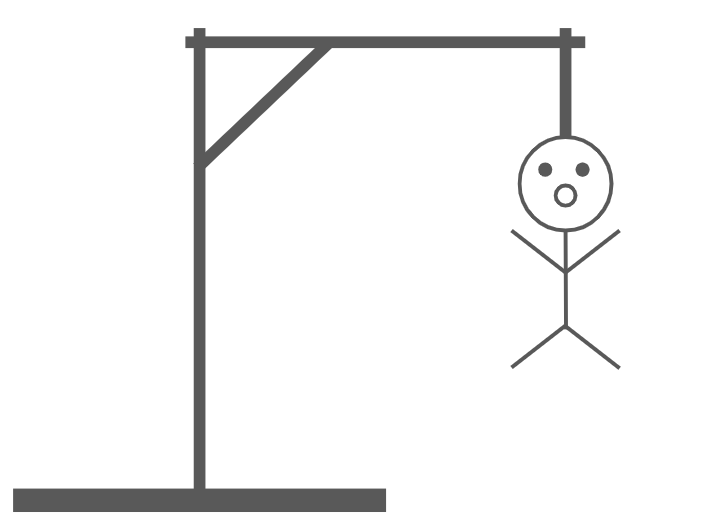
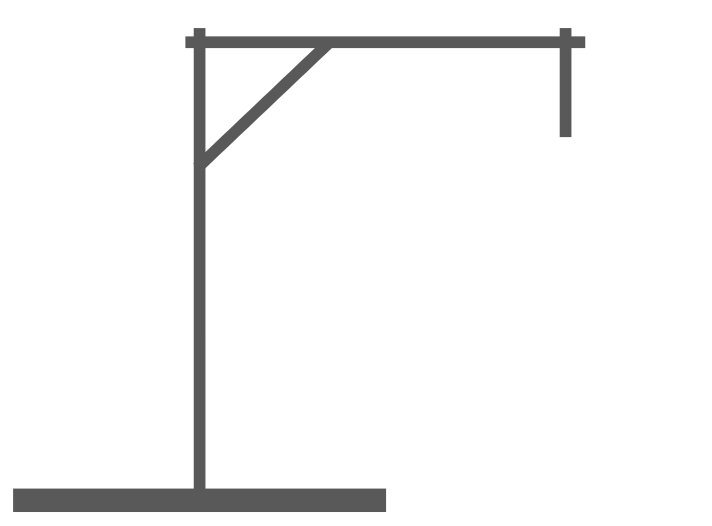
finish

diff --git a/src/app/app.component.scss b/src/app/app.component.scss
@@ -3,12 +3,11 @@
     flex-direction: row;
     justify-content: space-around;
     align-items: center;
-    // background-color: rgba(211, 211, 211, 0.689);
     width: 100%;
     height: 100vh;
     margin: auto;
     gap: 50px;
-    padding: 0 50px;
+    padding: 0 20px;
     box-sizing: border-box;
 }
 
@@ -78,15 +77,24 @@
     width: 50%;
     height: 90%;
     display: flex;
-    justify-content: space-between;
+    justify-content: flex-start;
     align-items: center;
-    // background-color: rgb(225 225 225);
     border-radius: 5px;
-    gap: 0;
+    gap: 150px;
+}
+
+.hangman {
+    display: flex;
+    flex-direction: column;
+    justify-content: center;
 }
 
 .hangman-image {
     width: 80%;
+}
+
+.hangman-mistakes {
+    padding-left: 10px;
 }
 
 .full-screen-message {
@@ -124,12 +132,6 @@
     font-weight: 700;
 }
 
-.play-again {
-    padding: 20px;
-    background-color: #fff;
-    color: #000;
-}
-
 .score {
     font-size: 2rem;
     color: #021f5f;
@@ -165,4 +167,75 @@
     font-size: 3rem;
     padding: 10px 30px;
     border-radius: 10px;
+}
+
+.mobile-stats,
+.correct-mobile-stats {
+    display: none;
+}
+
+@media only screen and (max-width: 600px) {
+    .container {
+        flex-direction: column;
+        height: 100%;
+        margin-top: 10px;
+        gap: 30px;
+    }
+    .title {
+        display: none;
+    }
+    .button {
+        font-size: 1rem;
+        padding: 20px;
+    }
+    .hangman {
+        align-items: center;
+    }
+    .word-side {
+        width: 100%;
+        gap: 30px;
+    }
+    .image {
+        width: 90%;
+    }
+    .game-over-screen {
+        gap: 30px;
+    }
+    .play-again {
+        font-size: 1.5rem;
+        text-align: center;
+    }
+    .image {
+        justify-content: center;
+    }
+    .text {
+        font-size: 1.5rem;
+        text-align: center;
+    }
+    .score,
+    .correct,
+    .hangman-mistakes {
+        display: none;
+    }
+    .chosen-word-letter {
+        font-size: 3rem;
+    }
+    .mobile-stats {
+        display: flex;
+        justify-content: space-between;
+        background-color: #f1f1f1;
+        width: 100%;
+        gap: 5px;
+        padding: 10px;
+        box-sizing: border-box;
+        box-shadow: 0 2px 2px rgba(0, 0, 0, 0.162);
+    }
+    .correct-mobile-stats {
+        background-color: rgb(66, 140, 80);
+        color: #fff;
+        font-size: 1rem;
+        padding: 10px;
+        font-weight: 700;
+        text-align: center;
+    }
 }

diff --git a/src/app/app.component.html b/src/app/app.component.html
@@ -1,9 +1,23 @@
+<div class="mobile-stats" *ngIf="status !== GameStatus.GameWon">
+    <div class="mobile-score"> Wins: {{wins}}</div>
+    <div class="mobile-score "> Highscore: {{highscore}}</div>
+    <div class="mobile-hangman-mistakes">Remaining tries: {{allowedTryCount }}</div>
+</div>
+<div class="correct-mobile-stats" *ngIf="status === GameStatus.GameWon">
+    CORRECT!
+</div>
+
 <div class="container">
 
     <div class="image">
         <div class="title">THE HANGMAN GAME</div>
-        <img class="hangman-image" [src]="'assets/' + mistakeCount + '.png'">
-        <div></div>
+        <div class="hangman">
+
+
+
+            <img class="hangman-image" [src]="'assets/' + allowedTryCount + '.png'">
+            <div class="hangman-mistakes">Remaining tries: {{allowedTryCount }}</div>
+        </div>
     </div>
 
     <div class="word-side" *ngIf="status === GameStatus.GameOn || status === GameStatus.GameWon">
@@ -25,11 +39,11 @@
             </div>
         </div>
     </div>
-    <div class="game-over-screen " *ngIf="status === GameStatus.GameOver">
+    <div class="game-over-screen" *ngIf="status === GameStatus.GameOver">
         <div class="message ">GAME OVER</div>
         <div class="text ">The hidden word was:
             <div class="hidden-word "><span *ngFor="let item of currentWord ">{{item}}</span></div>
         </div>
-        <div class="button " (click)="playAgain() ">Play Again</div>
+        <div class="button play-again" (click)="playAgain() ">Play Again</div>
     </div>
 </div>

diff --git a/src/app/app.component.ts b/src/app/app.component.ts
@@ -10,7 +10,7 @@ import { Letter } from './interfaces/letter';
 export class AppComponent {
 
   title = 'hangman';
-  mistakeCount = 0;
+  allowedTryCount = 5;
   currentWord = [] as string[];
   displayWord = [] as string[];
   lettersState = [] as Letter[];
@@ -19,8 +19,6 @@ export class AppComponent {
   GameStatus = GameStatus;
 
   status = GameStatus.GameOn;
-
-  maxTries = 5;
   wins = 0;
   highscore = 0; 
 
@@ -45,6 +43,7 @@ export class AppComponent {
     this.generateLettersState();
     this.selectWordRandomly();
     this.initDisplayWord();
+    console.log(this.currentWord)
   }
 
   initDisplayWord() {
@@ -110,20 +109,19 @@ export class AppComponent {
     }
   }
 
-  handleWrongAnswer(item: Letter) {
-    this.mistakeCount = this.mistakeCount + 1;
+  handleWrongAnswer(item: Letter) { 
+    this.allowedTryCount = this.allowedTryCount - 1;
     item.isSelected = true;
-
-      if (this.mistakeCount === this.maxTries) {
-        this.status =  GameStatus.GameOver;
-      }
+    if (this.allowedTryCount === 0){
+      this.status = GameStatus.GameOver;
+    } 
   }
 
   clearData() {
     this.currentWord = [] as string[];
     this.displayWord = [] as string[];
     this.lettersState = [] as Letter[];
-    this.mistakeCount = 0;
+    this.allowedTryCount = 5;
     this.status = GameStatus.GameOn;
   }
   playAgain() {
